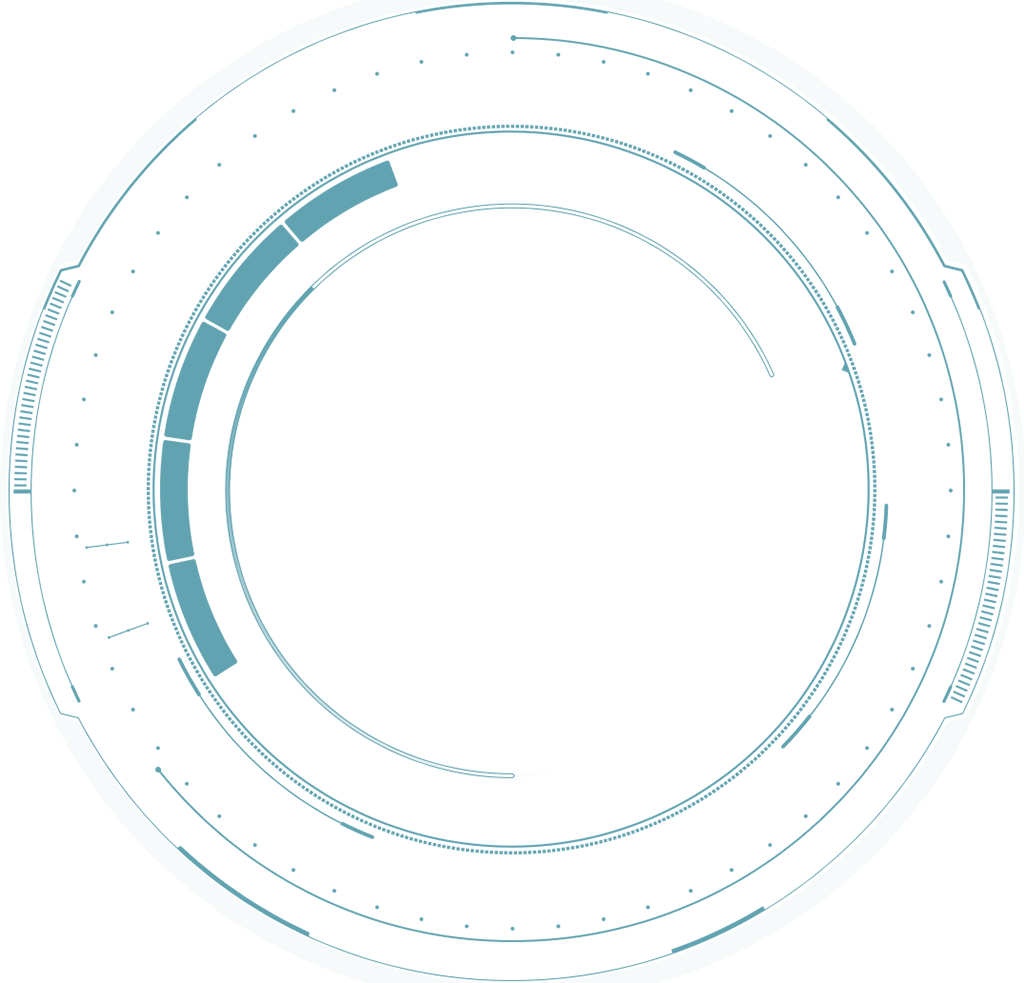
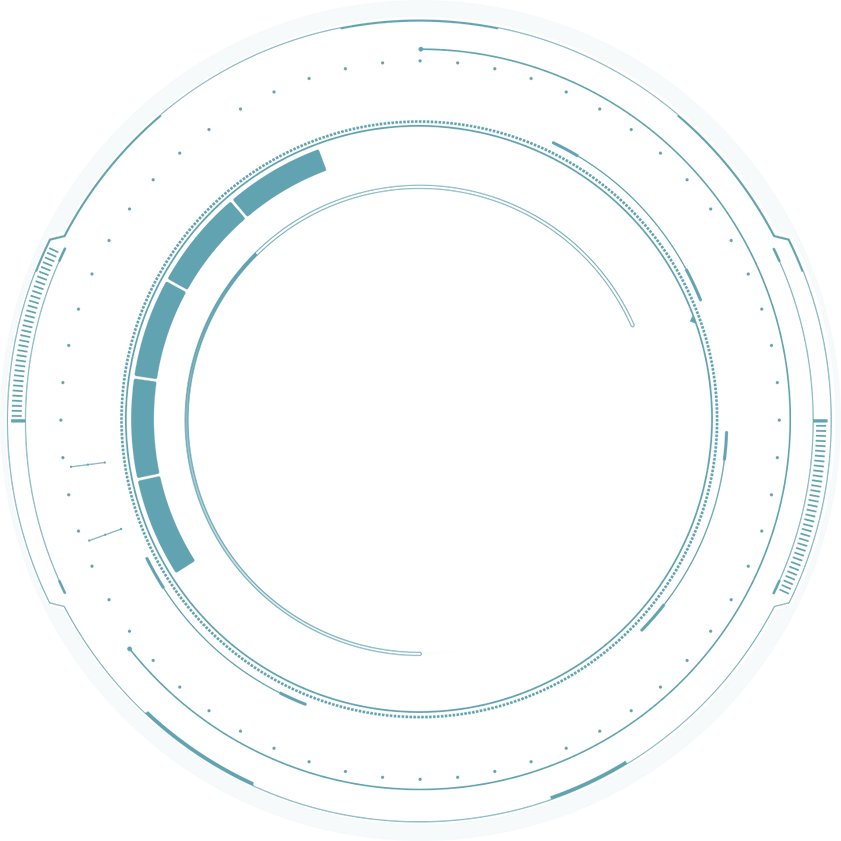
background fixes

diff --git a/public/css/style.css b/public/css/style.css
@@ -92,3 +92,39 @@ body{
   -o-transform: skewX(-20deg);
   transform: skewX(-20deg);
 }
+
+@-webkit-keyframes rotating /* Safari and Chrome */ {
+  from {
+    -webkit-transform: rotate(0deg);
+    -o-transform: rotate(0deg);
+    transform: rotate(0deg);
+  }
+  to {
+    -webkit-transform: rotate(360deg);
+    -o-transform: rotate(360deg);
+    transform: rotate(360deg);
+  }
+}
+@keyframes rotating {
+  from {
+    -ms-transform: rotate(0deg);
+    -moz-transform: rotate(0deg);
+    -webkit-transform: rotate(0deg);
+    -o-transform: rotate(0deg);
+    transform: rotate(0deg);
+  }
+  to {
+    -ms-transform: rotate(360deg);
+    -moz-transform: rotate(360deg);
+    -webkit-transform: rotate(360deg);
+    -o-transform: rotate(360deg);
+    transform: rotate(360deg);
+  }
+}
+.rotating {
+  -webkit-animation: rotating 20s linear infinite;
+  -moz-animation: rotating 20s linear infinite;
+  -ms-animation: rotating 20s linear infinite;
+  -o-animation: rotating 20s linear infinite;
+  animation: rotating 20s linear infinite;
+}

diff --git a/public/css/mining-app.css b/public/css/mining-app.css
@@ -1,9 +1,27 @@
 .mining-app-wrap {
   padding: 15px 0 0;
-  background: url('../images/circles.png') no-repeat center center / cover;
+  z-index: 2;
+  position: absolute;
+  width: 100%;
+}
+.mining-bg-wrap {
+  position: absolute;
+  width: 100%;
+  height: 100%;
+
+  z-index: 0;
+}
+.mining-bg-wrap img {
+  position: absolute;
+  width: 100%;
+  top: calc(50% + -390px);
+  z-index: 0;
 }
 header {
   text-align: center;
+  position: absolute;
+  width: 100%;
+  z-index: 1;
 }
 header p {
   color: #fff;
@@ -11,9 +29,15 @@ header p {
 }
 
 /* Main */
+.main {
+  z-index: 2;
+  position: absolute;
+  width: 100%;
+  top: 120px;
+}
 .main form {
   text-align: center;
-  margin-bottom: 0px;
+  margin-bottom: 5px;
 }
 .address-wrap {
   display: flex;

diff --git a/src/components/MiningApp.js b/src/components/MiningApp.js
@@ -73,6 +73,9 @@ export default class MiningApp extends React.Component {
         }
         return (
             <div className="mining-app-wrap">
+                <div className="mining-bg-wrap">
+                    <img className={this.state.active ? "rotating" : ""} src="/images/circles.png" alt="Circles" />
+                </div>
                 <header>
                     <img src="images/logo.png" alt="Logo" />
                     <p>{packageJson.version}</p>
@@ -151,5 +154,3 @@ export default class MiningApp extends React.Component {
 MiningApp.contextTypes = {
     router: React.PropTypes.object.isRequired
 };
-
-//if wallet is found main image is new wallet found

diff --git a/public/index.html b/public/index.html
@@ -17,7 +17,7 @@
             work correctly both with client-side routing and a non-root public URL.
             Learn how to configure a non-root public URL by running `npm run build`.
         -->
-        <title>SAFEX Wallet</title>
+        <title>SAFEX 1 Click Mining App</title>
     </head>
     <body>
         <div id="root"></div>

diff --git a/README.md b/README.md
@@ -6,8 +6,54 @@ Official repository for SAFEX 1 click mining app.
 
 #### Backend:
 
-To start project backend, run this:
+To start project backend
 
 ```
+$npm install
 $ npm run dev
 ```
+
+## Build:
+
+Run
+
+```
+npm run make-all-installers
+```
+
+to make all installer. This will work only on Mac because of Mac.
+
+You can also run
+
+```
+npm run make-win-installer
+npm run make-mac-installer
+npm run make-linux-installer
+```
+separately.
+
+For linux builds, you will need to have `rpmbuild` available on system (`apt-get install rpm`).
+
+## License
+
+MIT License
+
+Copyright (c) 2018 Safex Developers
+
+Permission is hereby granted, free of charge, to any person obtaining a copy
+of this software and associated documentation files (the "Software"), to deal
+in the Software without restriction, including without limitation the rights
+to use, copy, modify, merge, publish, distribute, sublicense, and/or sell
+copies of the Software, and to permit persons to whom the Software is
+furnished to do so, subject to the following conditions:
+
+The above copyright notice and this permission notice shall be included in all
+copies or substantial portions of the Software.
+
+THE SOFTWARE IS PROVIDED "AS IS", WITHOUT WARRANTY OF ANY KIND, EXPRESS OR
+IMPLIED, INCLUDING BUT NOT LIMITED TO THE WARRANTIES OF MERCHANTABILITY,
+FITNESS FOR A PARTICULAR PURPOSE AND NONINFRINGEMENT. IN NO EVENT SHALL THE
+AUTHORS OR COPYRIGHT HOLDERS BE LIABLE FOR ANY CLAIM, DAMAGES OR OTHER
+LIABILITY, WHETHER IN AN ACTION OF CONTRACT, TORT OR OTHERWISE, ARISING FROM,
+OUT OF OR IN CONNECTION WITH THE SOFTWARE OR THE USE OR OTHER DEALINGS IN THE
+SOFTWARE.
